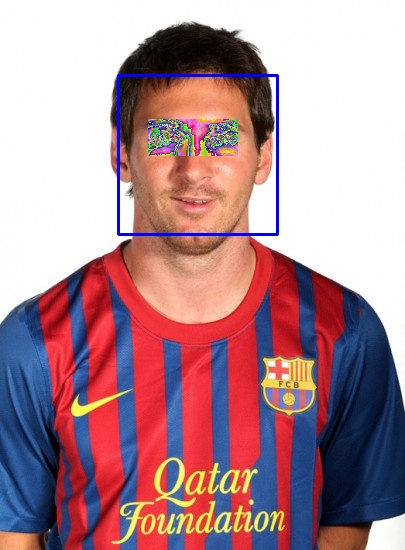
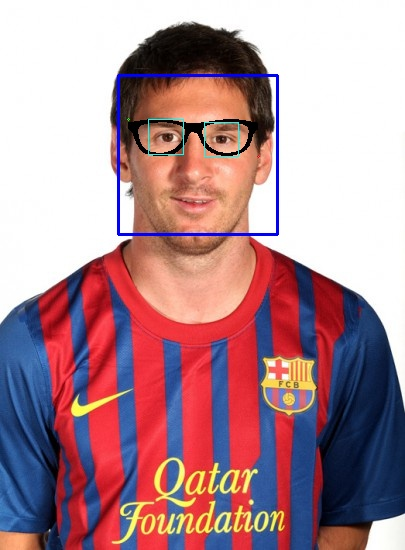
Working glasses picture overlay

Changed region(s): [[0.2963, 0.2164, 0.6519, 0.3091]]

diff --git a/main.py b/main.py
@@ -6,7 +6,7 @@ eye_cascade = cv2.CascadeClassifier('haarcascades/haarcascade_eye.xml')
 
 img = cv2.imread('input/Lionel-Messi.jpg')
 
-glasses = cv2.imread('glasses/glasses1.png')
+glasses = cv2.imread('glasses/glasses3.png')
 
 gray = cv2.cvtColor(img, cv2.COLOR_BGR2GRAY)
 # print gray
@@ -36,15 +36,15 @@ for (x,y,w,h) in faces:
     # print glasses
     # print img
 
-
+    width_offset = 20
 
     print eyes
     # cv2.addWeighted(src1, alpha, src2, beta, gamma[, dst[, dtype]])
-    ex = eyes[0, 0]
+    ex = eyes[0, 0] - width_offset
     ey = eyes[0, 1]
     ex2 = eyes[1, 0]
     ey2 = eyes[1, 1]
-    ew2 = eyes[1, 2]
+    ew2 = eyes[1, 2] + width_offset
     eh2 = eyes[1, 3]
 
 
@@ -54,14 +54,47 @@ for (x,y,w,h) in faces:
     file_name = "output/glasses" + str(w) + ".jpg"
     cv2.imwrite(file_name, glasses );
 
-    masked_img = roi_color[ey:ey2+eh2, ex:ex2+ew2] = roi_color[ey:ey2+eh2, ex:ex2+ew2] * 5
+    masked_img = roi_color[ey:ey2+eh2, ex:ex2+ew2]
     print 'mask'
-    print masked_img.shape
+    # print masked_img.shape
     print 'glasses'
     print glasses.shape
 
 
-    roi_color = cv2.addWeighted(glasses,0.7,masked_img,0.3,0)
+    # roi_color = cv2.addWeighted(masked_img,0.5,glasses,0.5,5)
+
+
+    # I want to put logo on top-left corner, So I create a ROI
+    img1 = masked_img
+    img2 = glasses
+    rows,cols,channels = img2.shape
+    roi = img1[0:rows, 0:cols]
+
+    # Now create a mask of logo and create its inverse mask also
+    img2gray = cv2.cvtColor(img2,cv2.COLOR_BGR2GRAY)
+    img2gray = cv2.bitwise_not(img2gray)
+    ret, mask = cv2.threshold(img2gray, 127, 255, cv2.THRESH_BINARY)
+
+    mask_inv = cv2.bitwise_not(mask)
+
+    cv2.imwrite("output/mask.jpg", mask);
+    cv2.imwrite("output/mask_inv.jpg", mask_inv);
+
+    # Now black-out the area of logo in ROI
+    img1_bg = cv2.bitwise_and(roi,roi,mask=mask_inv )
+
+    # Take only region of logo from logo image.
+    img2_fg = cv2.bitwise_and(img2,img2,mask)
+
+
+    cv2.imwrite("output/img1_bg.jpg", img1_bg);
+    cv2.imwrite("output/img2_fg.jpg", img2_fg);
+
+
+    # Put logo in ROI and modify the main image
+    dst = img1_bg
+    img1[0:rows, 0:cols] = dst
+
 
     cv2.circle(roi_color, (ex, ey), 1, (0,255,0), 1)
     cv2.circle(roi_color, (ex2+ew2, ey2+eh2), 1, (0,0,255), 1)
@@ -69,7 +102,7 @@ for (x,y,w,h) in faces:
     # dst = cv2.addWeighted(glasses,0.7,img2,0.3,0)
     for (ex,ey,ew,eh) in eyes:
         # cv2.rectangle(img, pt1, pt2, color, thickness)
-        # cv2.rectangle(roi_color,(ex,ey),(ex+ew,ey+eh),(255,255,0))
+        cv2.rectangle(roi_color,(ex,ey),(ex+ew,ey+eh),(255,255,0))
         # cv2.circle(roi_color, (ex, ey), 1, (0,0,255), 1)
         # cv2.circle(roi_color, (ex+ew, ey), 1, (0,0,255), 1)
         # cv2.circle(roi_color, (ex, ey+eh), 1, (0,0,255), 1)
